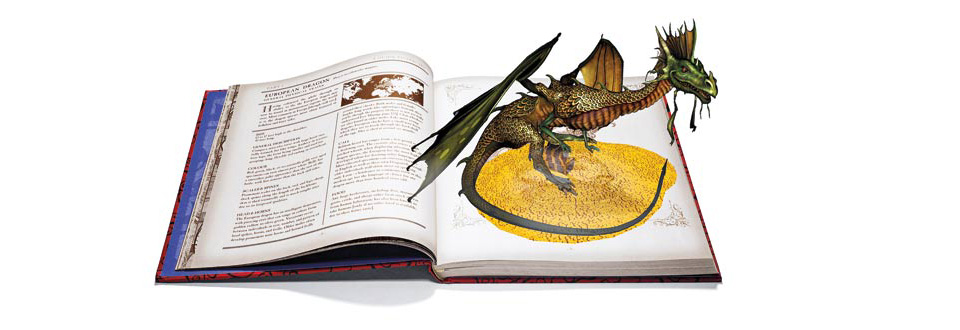
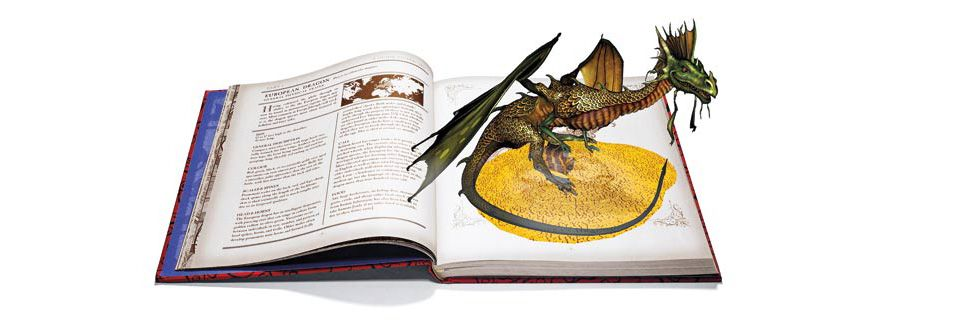
se bajo la resolución de las imagenes y se modificó el post.php

diff --git a/post.php b/post.php
@@ -14,18 +14,18 @@ $email    = $_POST['email'];
 $message = $_POST['message'];
 
 if(trim($name) == '') {
-	echo '<div class="notification error clearfix"><p><strong>Attention!</strong> Debes introducir un nombre.</p></div>';
+	echo '<div class="notification error clearfix"><p><strong>Attention!</strong> You must enter your name.</p></div>';
 	exit();
 } else if(trim($email) == '') {
-	echo '<div class="notification error clearfix"><p><strong>Attention!</strong> Introduce un email válido.</p></div>';
+	echo '<div class="notification error clearfix"><p><strong>Attention!</strong> Please enter a valid email address.</p></div>';
 	exit();
 } else if(!isEmail($email)) {
-	echo '<div class="notification error clearfix"><p><strong>Attention!</strong> Has ingresado un email válido, intenta de nuevo.</p></div>';
+	echo '<div class="notification error clearfix"><p><strong>Attention!</strong> You have entered an invalid e-mail address, try again.</p></div>';
 	exit();
 }
 
 if(trim($message) == '') {
-	echo '<div class="notification error clearfix"><p><strong>Attention!</strong> Por favor ingresa tu mensaje.</p></div>';
+	echo '<div class="notification error clearfix"><p><strong>Attention!</strong> Please enter your message.</p></div>';
 	exit();
 } 
 
@@ -46,16 +46,16 @@ $address = "info@illut.io";
 
 // Example, $e_subject = '$name . ' has contacted you via Your Website.';
 
-$e_subject = 'Has sido contactado por ' . $name . '.';
+$e_subject = 'ILLUTIO\'Has sido contactado por ' . $name . '.';
 
 
 // Configuration option.
 // You can change this if you feel that you need to.
 // Developers, you may wish to add more fields to the form, in which case you must be sure to add them here.
 
-$e_body = "Has sido contactado por $name , su mensaje es el siguiente:" . PHP_EOL . PHP_EOL;
+$e_body = "Has sido contactado por  $name , con el siguiente mensaje" . PHP_EOL . PHP_EOL;
 $e_content = "\"$message\"" . PHP_EOL . PHP_EOL;
-$e_reply = "Puedes contactar a $name via email, $email";
+$e_reply = "You can contact $name via email, $email";
 
 $msg = wordwrap( $e_body . $e_content . $e_reply, 70 );
 
@@ -71,7 +71,7 @@ if(mail($address, $e_subject, $msg, $headers)) {
 
 	echo "<fieldset>";
 	echo "<div id='success_page'>";
-	echo "<div class='notification success clearfix'><p>Gracias <strong>$name</strong>, Tu mensaje a sido enviado.</p></div>";
+	echo "<div class='notification success clearfix'><p>Gracias por contactarnos <strong>$name</strong>,hemos recibido tu mensaje exitosamente.</p></div>";
 	echo "</div>";
 	echo "</fieldset>";
 
